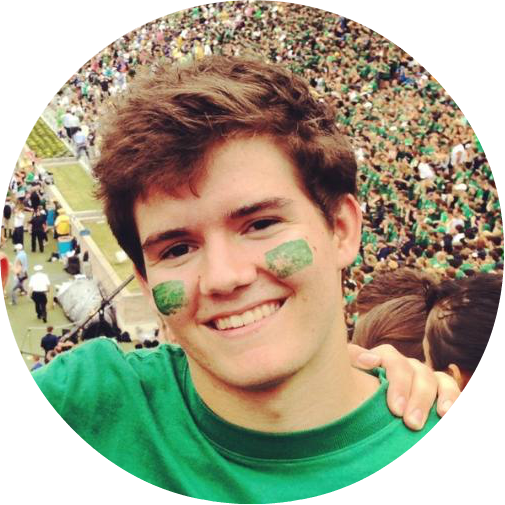
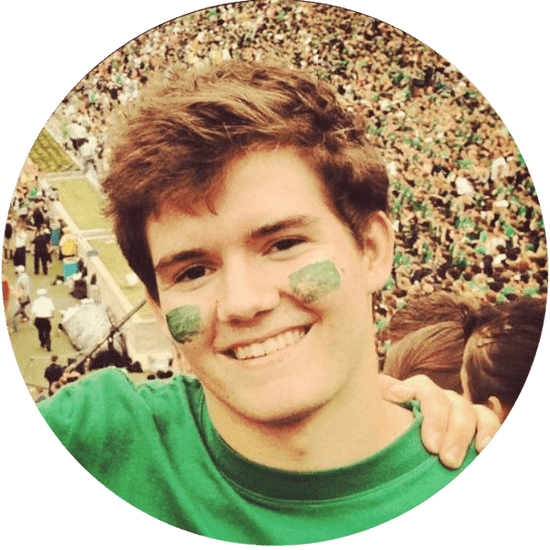
smaller landing pic resolution

diff --git a/index.html b/index.html
@@ -64,7 +64,7 @@
 		</header>
 		<div>
 			<div style="width:100%; height:0px; background-color:white">
-				<p class="landingPic" style="max-width:600px;"><img alt="Pat Myron" class="photo" src="./pics/football2.png"></p>
+				<p class="landingPic" style="max-width:600px;"><img alt="Pat Myron" class="photo" src="./pics/football.png"></p>
 
 				<div class="vcard" style=" font-size: 2em; font-weight: bold; padding:20px; line-height: 1.4em;">
 					<p>Hi, I'm <span class="fn">Pat Myron</span>.</p>
